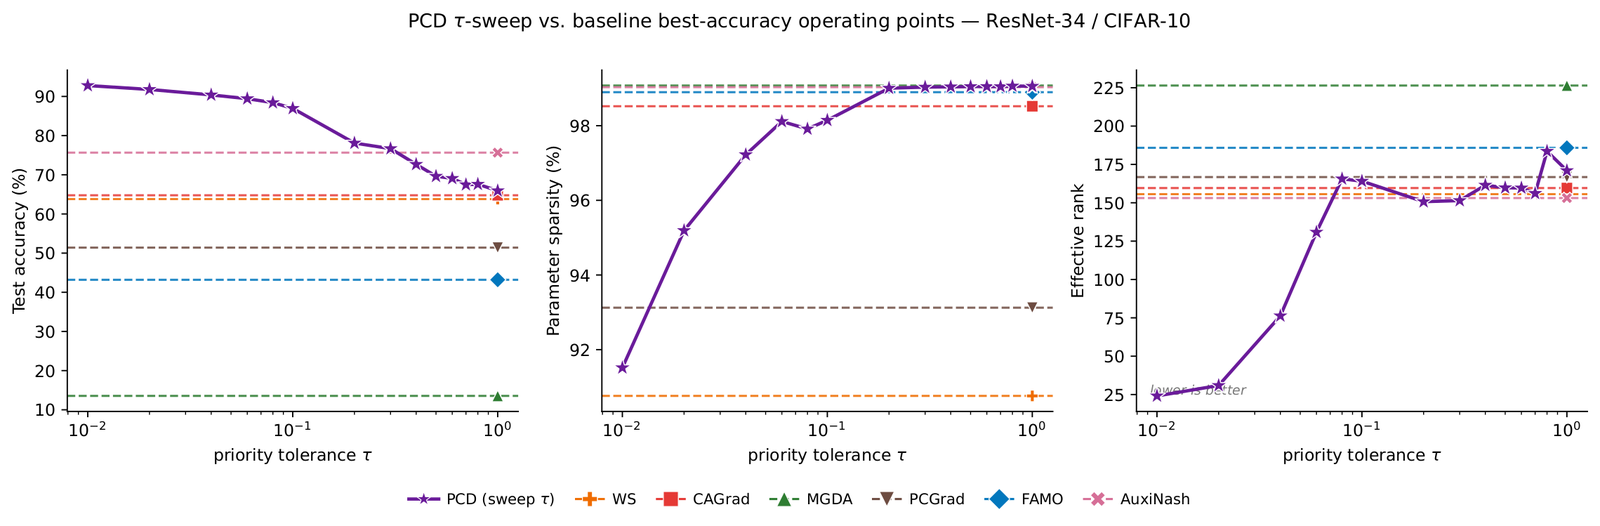
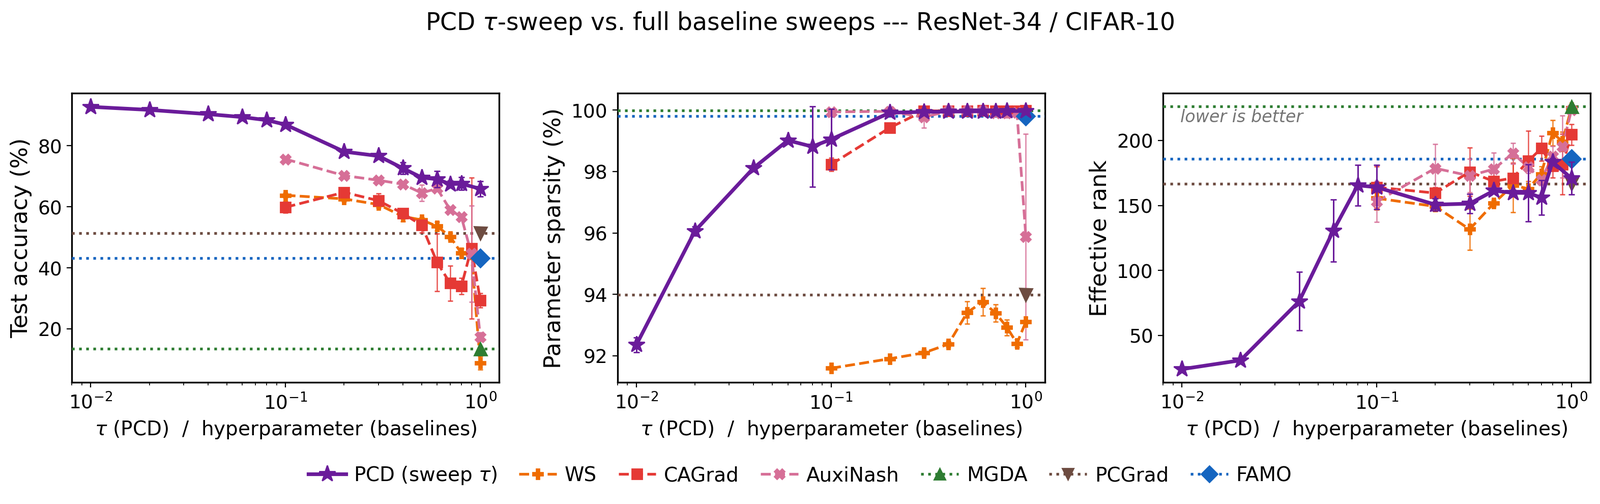
Update project page for the TMLR acceptance
- Venue: TMLR 2026 pill in the hero, OpenReview button and footer link,
  BibTeX now cites the TMLR article (arXiv kept as eprint).
- Video section with a placeholder (poster still + "coming soon"); the
  comment inside .video-frame shows the one-block swap for the final
  <video> or a YouTube embed.
- Figures regenerated from the accepted manuscript: ResNet-34/CIFAR-100
  pruning panel, per-method Pareto fronts, cost vs tau, K=3 tau-sweep.
- Numbers and claims aligned with the accepted paper: measured 45.4x FLOPs
  and 83x size at 99% (DenseNet-121/CIFAR-10), 24.5 ms unpruned latency,
  28/1/18 tuned comparisons, the MobileNetV2/CIFAR-100 99% exception,
  fixed-point wording scoped to the PCD direction, O(K/B) solver cost,
  and no convergence theorem for the deployed algorithm.
- An unset code link now tells visitors "Code release coming soon"
  instead of showing a developer message.

diff --git a/index.html b/index.html
@@ -4,7 +4,7 @@
 <meta charset="UTF-8" />
 <meta name="viewport" content="width=device-width, initial-scale=1.0" />
 <title>Priority-Constrained Descent (PCD) — Hierarchical Multi-Objective Optimization</title>
-<meta name="description" content="PCD is a drop-in gradient optimizer for training problems with a built-in hierarchy: one primary objective plus secondary objectives that merely constrain it. A single tolerance τ ∈ [0,1], no per-loss weights, and a guarantee it never stalls at the conflict equilibria where symmetric methods halt." />
+<meta name="description" content="PCD (TMLR 2026) is a drop-in gradient optimizer for training problems with a built-in hierarchy: one primary objective plus secondary objectives that merely constrain it. A single tolerance τ ∈ [0,1], no per-loss weights, and an update direction for which the conflict equilibria where symmetric methods halt are never fixed points." />
 <meta name="author" content="Dara Varam, Mohamed I. AlHajri" />
 
 <!-- Open Graph / social preview -->
@@ -33,6 +33,7 @@
 <nav class="dotnav" id="dotnav" aria-label="Section navigation">
   <a href="#hero" data-label="Top" class="active"><span></span></a>
   <a href="#tldr" data-label="TL;DR"><span></span></a>
+  <a href="#video" data-label="Video"><span></span></a>
   <a href="#figure" data-label="Interactive"><span></span></a>
   <a href="#method" data-label="The idea"><span></span></a>
   <a href="#guarantees" data-label="Guarantees"><span></span></a>
@@ -77,12 +78,17 @@
         <span><sup>2</sup> Senseable City Lab, MIT</span>
         <span class="eq"><sup>★</sup> Equal contribution</span>
       </div>
+      <p class="venue"><span class="venue-pill">Transactions on Machine Learning Research (TMLR), 2026</span></p>
     </div>
 
     <div class="actions reveal">
       <a class="btn btn-primary" href="#" data-link="paper">
         <svg viewBox="0 0 24 24" class="ico"><path d="M6 2h9l5 5v15H6z"/><path d="M15 2v5h5"/></svg>
         Read the paper
+      </a>
+      <a class="btn" href="#" data-link="openreview">
+        <svg viewBox="0 0 24 24" class="ico"><path d="M12 3l2.6 5.3 5.9.9-4.3 4.1 1 5.8-5.2-2.7-5.2 2.7 1-5.8-4.3-4.1 5.9-.9z"/></svg>
+        OpenReview
       </a>
       <a class="btn" href="#" data-link="arxiv">
         <svg viewBox="0 0 24 24" class="ico"><path d="M4 5h16M4 12h16M4 19h10"/></svg>
@@ -108,14 +114,42 @@
   <div class="wrap">
     <p class="kicker reveal">TL;DR</p>
     <div class="tldr-card reveal">
-      <p class="tldr-lead">Most training pipelines mix several losses, but one is usually the real <strong>deliverable</strong> (task accuracy) while the rest only <strong>constrain</strong> it (sparsity, low-rank, fidelity). Symmetric multi-objective methods average all gradients as equal peers and can <strong>stall before the primary has converged</strong>. <span class="hl">PCD anchors to the primary gradient and admits only the minimal distortion needed to keep every secondary making <em>guaranteed</em> progress</span> — one bounded knob&nbsp;<span class="m">τ</span>, no weight search, and a fixed point that is reached only when <em>every</em> objective is individually stationary.</p>
+      <p class="tldr-lead">Most training pipelines mix several losses, but one is usually the real <strong>deliverable</strong> (task accuracy) while the rest only <strong>constrain</strong> it (sparsity, low-rank, fidelity). Symmetric multi-objective methods average all gradients as equal peers and can <strong>stall before the primary has converged</strong>. <span class="hl">PCD anchors to the primary gradient and admits only the minimal distortion needed to keep every secondary making <em>guaranteed</em> progress</span> — one bounded knob&nbsp;<span class="m">τ</span>, no weight search, and an update direction that vanishes only when <em>every</em> objective is individually stationary.</p>
       <div class="chips">
         <span class="chip"><b>1</b> dial, not a weight sweep</span>
         <span class="chip"><b>94.0%</b> acc @ 90% pruning <span class="chip-sub">DenseNet-121 / CIFAR-10</span></span>
         <span class="chip"><b>70.9%</b> acc @ 90% pruning <span class="chip-sub">ResNet-34 / CIFAR-100</span></span>
-        <span class="chip">Can't get trapped in <b>conflict equilibria</b></span>
+        <span class="chip"><b>Conflict equilibria</b> are not fixed points</span>
       </div>
     </div>
+  </div>
+</section>
+
+<!-- ============================ VIDEO ============================ -->
+<section id="video" class="section section-video">
+  <div class="wrap">
+    <p class="kicker reveal">Video</p>
+    <h2 class="reveal">The whole idea, animated.</h2>
+    <div class="video-frame reveal">
+      <!-- Placeholder until the narrated cut is final. To publish the video, replace the
+           .video-placeholder div below with either a self-hosted file:
+             <video controls preload="metadata" playsinline poster="assets/video-poster.jpg">
+               <source src="assets/pcd-video.mp4" type="video/mp4" />
+               <track kind="captions" src="assets/pcd-video.vtt" srclang="en" label="English" default />
+             </video>
+           or a YouTube embed:
+             <iframe src="https://www.youtube-nocookie.com/embed/VIDEO_ID" title="Priority-Constrained Descent"
+                     allow="accelerometer; encrypted-media; gyroscope; picture-in-picture; fullscreen" allowfullscreen></iframe>
+           Both fill the 16:9 frame; no CSS changes needed. -->
+      <div class="video-placeholder">
+        <img src="assets/video-poster.jpg" alt="Still from the PCD video: the primary gradient projected onto the half-space of directions that keep the secondary progressing." loading="lazy" />
+        <div class="video-overlay">
+          <span class="video-play" aria-hidden="true"><svg viewBox="0 0 24 24"><path d="M8 5v14l11-7z"/></svg></span>
+          <span class="video-soon">Narrated walkthrough · coming soon</span>
+        </div>
+      </div>
+    </div>
+    <p class="caption reveal">An eight-minute tour: why symmetric methods stall at conflict equilibria, how PCD's projection works and what <span class="m">τ</span> controls, and the results on pruning, sparsity and low rank.</p>
   </div>
 </section>
 
@@ -189,7 +223,7 @@
 
         <p class="reveal">The primary's coefficient is <strong>pinned to one</strong>; each secondary enters only through a non-negative multiplier that is zero unless its constraint is active. The "anchor" and the "corrections" are built into the construction — not recovered from it. That is the structural break from symmetric methods, which mix <span class="m">g<sub>1</sub></span> and <span class="m">g<sub>2</sub></span> as peers and cannot tell the deliverable from its constraints.</p>
 
-        <p class="reveal">For <span class="m">K = 2</span> the update is fully closed-form — add <em>exactly</em> the component along <span class="m">g̃<sub>2</sub></span> needed to meet the constraint at equality, and no more. <span class="m">K = 3</span> is closed-form via Cramer's rule; larger <span class="m">K</span> uses an active-set solver whose <span class="m">O(K²n)</span> cost is dominated by the <span class="m">K</span> backpropagations.</p>
+        <p class="reveal">For <span class="m">K = 2</span> the update is fully closed-form — add <em>exactly</em> the component along <span class="m">g̃<sub>2</sub></span> needed to meet the constraint at equality, and no more. <span class="m">K = 3</span> is closed-form via Cramer's rule; larger <span class="m">K</span> enumerates active sets on the <span class="m">K×K</span> Gram matrix. That solve is negligible next to the <span class="m">K</span> backpropagations: under 2% of wall-clock time at <span class="m">K = 2</span>.</p>
 
         <div class="eqn reveal">\[ \mathbf{d}^\star = \begin{cases} \tilde{\mathbf{g}}_1, & \tilde{\mathbf{g}}_2^{\!\top}\tilde{\mathbf{g}}_1 \ge \tau\lVert\tilde{\mathbf{g}}_2\rVert^2,\\[6pt] \tilde{\mathbf{g}}_1 + \Bigl(\tau - \dfrac{\tilde{\mathbf{g}}_2^{\!\top}\tilde{\mathbf{g}}_1}{\lVert\tilde{\mathbf{g}}_2\rVert^2}\Bigr)\,\tilde{\mathbf{g}}_2, & \text{otherwise.} \end{cases} \]</div>
 
@@ -215,7 +249,7 @@
       <article class="card reveal">
         <div class="card-no">01</div>
         <h3>Per-step secondary progress</h3>
-        <p>With <span class="m">τ &gt; 0</span> and a feasible QP, every step satisfies <span class="m">g̃<sub>j</sub><sup>⊤</sup>d<sup>★</sup> ≥ τ‖g̃<sub>j</sub>‖²</span> — a tolerance-controlled descent on each non-stationary secondary. Stronger than PCGrad (no per-objective guarantee), MGDA (only an aggregate), and weighted sum (only the scalarized loss).</p>
+        <p>With <span class="m">τ &gt; 0</span> and a feasible QP, every step satisfies <span class="m">g̃<sub>j</sub><sup>⊤</sup>d<sup>★</sup> ≥ τ‖g̃<sub>j</sub>‖²</span> — tolerance-controlled first-order descent on each non-stationary secondary (exactly for smooth secondaries; for nonsmooth ones up to a "kink tax" the paper quantifies). Stronger than PCGrad (no per-objective guarantee), MGDA (only an aggregate), and weighted sum (only the scalarized loss).</p>
       </article>
       <article class="card reveal">
         <div class="card-no">02</div>
@@ -230,7 +264,7 @@
       <article class="card reveal">
         <div class="card-no">04</div>
         <h3>A strictly stronger endpoint</h3>
-        <p><span class="m">d<sup>★</sup> = 0</span> if and only if <em>every</em> objective is individually stationary — <strong>composite multi-stationarity</strong>. It is strictly stronger than Pareto stationarity and rules out the gradient-cancellation conflict equilibria where symmetric methods halt.</p>
+        <p>For <span class="m">τ &gt; 0</span>, <span class="m">d<sup>★</sup> = 0</span> if and only if <em>every</em> objective is individually stationary — <strong>composite multi-stationarity</strong>. It is strictly stronger than Pareto stationarity, so the gradient-cancellation conflict equilibria where symmetric methods halt are never fixed points of the PCD direction.</p>
       </article>
       <article class="card reveal">
         <div class="card-no">05</div>
@@ -255,7 +289,7 @@
 
     <div class="stat-row">
       <div class="stat reveal"><div class="stat-num">70.9<span>%</span></div><div class="stat-lbl">accuracy at <b>90% structured sparsity</b> on ResNet-34 / CIFAR-100 (73.3% unpruned). Strongest baseline (AuxiNash): 44.4%.</div></div>
-      <div class="stat reveal"><div class="stat-num">89.2<span>%</span></div><div class="stat-lbl">accuracy at <b>99% parameter reduction</b> on DenseNet-121 / CIFAR-10 — a 43.2× FLOPs and 97.2× model-size cut.</div></div>
+      <div class="stat reveal"><div class="stat-num">89.2<span>%</span></div><div class="stat-lbl">accuracy at <b>99% parameter reduction</b> on DenseNet-121 / CIFAR-10 — a 45.4× FLOPs and 83× model-size cut, measured on the physically pruned network.</div></div>
       <div class="stat reveal"><div class="stat-num">2.3–3.4<span>×</span></div><div class="stat-lbl">the dominated <b>hypervolume</b> of the strongest baseline in the three-objective setting, in every configuration.</div></div>
     </div>
 
@@ -275,7 +309,8 @@
       </figure>
       <div class="result-text">
         <h3>One method dominates the pruning frontier</h3>
-        <p>Across <strong>four architectures</strong> (DenseNet-121, ResNet-34, Inception, MobileNetV2) on <strong>CIFAR-10 and CIFAR-100</strong> — eight configurations — PCD's purple curve sits above every multi-objective baseline at every compression target. Under a structural sparsity penalty the symmetric direction methods (MGDA, PCGrad, CAGrad, FAMO) collapse toward random accuracy; PCD holds the line.</p>
+        <p>Across <strong>four architectures</strong> (DenseNet-121, ResNet-34, Inception, MobileNetV2) on <strong>CIFAR-10 and CIFAR-100</strong> — eight configurations — PCD's purple curve sits above every multi-objective baseline at every compression target up to 95%. (The one exception is MobileNetV2 / CIFAR-100 at 99%, where every method has collapsed.) Under a structural sparsity penalty the symmetric direction methods (MGDA, PCGrad, CAGrad, FAMO) collapse toward random accuracy; PCD holds the line.</p>
+        <p>Against tuned, pruning-specific and constrained baselines at matched sparsity, PCD is better in <strong>28 of 47</strong> comparisons in the compression regime (≥ 85% sparsity), worse in 1, and within seed noise in the rest.</p>
       </div>
     </div>
 
@@ -285,33 +320,17 @@
       </figure>
       <div class="result-text">
         <h3>One dial, the whole frontier</h3>
-        <p>Sweeping a single <span class="m">τ</span> trades <strong>81.5&nbsp;MB</strong> of size, <strong>2.33&nbsp;G</strong> FLOPs and <strong>42.7&nbsp;ms</strong> of latency against accuracy on ResNet-34 / CIFAR-100. The curve is smooth and monotone — most of the benefit arrives within <span class="m">τ ∈ (0, 0.1]</span> — so a practitioner dials to a resource budget instead of searching weight ratios.</p>
+        <p>Sweeping a single <span class="m">τ</span> trades the unpruned network's <strong>81.5&nbsp;MB</strong>, <strong>2.33&nbsp;G</strong> FLOPs and <strong>24.5&nbsp;ms</strong> CPU latency against accuracy on ResNet-34 / CIFAR-100. The curve is smooth and, to within seed noise, monotone — most of the benefit arrives within <span class="m">τ ∈ (0, 0.1]</span> — so a practitioner dials to a resource budget instead of searching weight ratios.</p>
       </div>
     </div>
 
     <div class="result-block reveal">
       <figure>
-        <img src="assets/pareto-resnet-c100.png" alt="Pareto frontiers of accuracy vs latency, size and FLOPs." loading="lazy" />
-        <div class="tau-scale">
-          <span>PCD marker shade:</span>
-          <span class="ts-end m">τ = 0</span>
-          <i class="ts-bar"></i>
-          <span class="ts-end m">τ = 1</span>
-        </div>
-        <div class="fig-legend">
-          <span class="fl fl-star" style="--c:#6A1B9A">PCD (τ-swept)</span>
-          <span class="fl" style="--c:#EF6C00">WS</span>
-          <span class="fl" style="--c:#E53935">CAGrad</span>
-          <span class="fl" style="--c:#2E7D32">MGDA</span>
-          <span class="fl" style="--c:#1565C0">FAMO</span>
-          <span class="fl" style="--c:#6D4C41">PCGrad</span>
-          <span class="fl" style="--c:#D66F97">AuxiNash</span>
-          <span class="fl fl-star" style="--c:#1A1523">unpruned baseline</span>
-        </div>
+        <img src="assets/pareto-resnet-c100.png" alt="Pareto frontiers of accuracy vs latency, size and FLOPs; PCD's τ-swept curve against every baseline's physically pruned networks." loading="lazy" />
       </figure>
       <div class="result-text">
         <h3>The swept front dominates baselines</h3>
-        <p>On every resource axis — latency, file size, FLOPs — PCD's <span class="m">τ</span>-swept curve lies above each baseline's best operating point. The same single knob that controls compression traces the entire accuracy–efficiency Pareto front.</p>
+        <p>Every baseline is physically pruned at each compression target and its latency, file size and FLOPs measured directly. On ResNet-34 / CIFAR-100, on every one of those axes and at every target, the baseline networks sit above PCD's <span class="m">τ</span>-swept curve: at equal cost, PCD's network is more accurate. The same single knob that controls compression traces the whole accuracy–efficiency front.</p>
       </div>
     </div>
   </div>
@@ -349,8 +368,8 @@
       <p class="k3-lead">Beyond two objectives — a <span class="m">K = 3</span> hierarchy (task loss + <span class="m">ℓ<sub>1</sub></span> sparsity + nuclear-norm low-rank):</p>
       <div class="k3-figs">
         <figure>
-          <img src="assets/k3-tausweep.png" alt="τ-sweep on a three-objective hierarchy versus baseline operating points." loading="lazy" />
-          <figcaption>A single <span class="m">τ</span>-sweep beats every baseline on accuracy and effective rank at once; at <span class="m">τ = 0.02</span>, ResNet-34 / CIFAR-100 holds <b>71.0%</b> accuracy at effective rank <b>24.5</b>, versus AuxiNash's 48.7% at rank 184.8.</figcaption>
+          <img src="assets/k3-tausweep.png" alt="PCD's τ-sweep on a three-objective hierarchy versus every baseline's full hyperparameter sweep." loading="lazy" />
+          <figcaption>Over the low-to-moderate <span class="m">τ</span> range, PCD's single sweep beats every baseline's full sweep on accuracy and on effective rank, while the baselines reach high sparsity only by collapsing. At <span class="m">τ = 0.02</span>, ResNet-34 / CIFAR-100 holds <b>71.0%</b> accuracy at effective rank <b>24.5</b>, versus AuxiNash's 48.7% at rank 184.8.</figcaption>
         </figure>
         <figure>
           <img src="assets/k3-hypervolume.png" alt="Dominated hypervolume per configuration; PCD largest everywhere." loading="lazy" />
@@ -380,7 +399,8 @@
       <li class="reveal"><span class="dot"></span>Guarantees are <strong>local and directional</strong> — they attach to the normalized direction <span class="m">d<sup>★</sup></span> and its idealized first-order step, not to a stochastic global-convergence claim.</li>
       <li class="reveal"><span class="dot"></span>The CMS endpoint is meaningful only when a <strong>jointly stationary point exists</strong> (the regularizer-style hierarchy). On genuine trade-offs with no common stationary point, <span class="m">τ &gt; 0</span> has no fixed point.</li>
       <li class="reveal"><span class="dot"></span>For <span class="m">K &gt; 2</span> the QP can be infeasible if secondaries are mutually incompatible — but in high dimensions this is a measure-zero event (<strong>0 of 1785</strong> synthetic feasibility checks were infeasible).</li>
-      <li class="reveal"><span class="dot"></span>Each step needs <span class="m">K</span> backpropagations for the gradients; the <span class="m">K×K</span> QP itself is negligible — the same <span class="m">O(K²n)</span> order as MGDA.</li>
+      <li class="reveal"><span class="dot"></span>Each step needs <span class="m">K</span> backpropagations for the gradients. The <span class="m">K×K</span> QP adds an <span class="m">O(K²n)</span> Gram matrix, a fraction <span class="m">O(K/B)</span> of the backward passes for batch size <span class="m">B</span> (under 2% of wall-clock time at <span class="m">K = 2</span>, <span class="m">B = 128</span>).</li>
+      <li class="reveal"><span class="dot"></span>No convergence theorem is claimed for the deployed algorithm (normalized direction, magnitude rescale, adaptive optimizer). The guarantees describe the direction PCD computes; the experiments report PCD as deployed.</li>
     </ul>
   </div>
 </section>
@@ -399,12 +419,13 @@
   title         = {Not All Objectives Are Born Equal: Priority-Constrained
                    Descent for Hierarchical Multi-Objective Optimization},
   author        = {Varam, Dara and AlHajri, Mohamed I.},
-  journal       = {arXiv preprint arXiv:2606.29521},
+  journal       = {Transactions on Machine Learning Research},
+  issn          = {2835-8856},
   year          = {2026},
+  url           = {https://openreview.net/forum?id=HT01yGHLEt},
   eprint        = {2606.29521},
   archivePrefix = {arXiv},
-  primaryClass  = {cs.LG},
-  url           = {https://arxiv.org/abs/2606.29521}
+  primaryClass  = {cs.LG}
 }</pre>
     </div>
   </div>
@@ -412,10 +433,11 @@
     <div class="wrap footer-inner">
       <div>
         <p class="foot-title">Priority-Constrained Descent</p>
-        <p class="foot-sub">Dara Varam &amp; Mohamed I. AlHajri · American University of Sharjah</p>
+        <p class="foot-sub">Dara Varam &amp; Mohamed I. AlHajri · American University of Sharjah · TMLR 2026</p>
       </div>
       <div class="foot-links">
         <a href="#" data-link="paper">Paper</a>
+        <a href="#" data-link="openreview">OpenReview</a>
         <a href="#" data-link="arxiv">arXiv</a>
         <a href="#" data-link="code">Code</a>
         <a href="mailto:varam@mit.edu">Contact</a>

diff --git a/css/style.css b/css/style.css
@@ -115,6 +115,8 @@ sup{font-size:.62em;font-weight:500;}
 .author{font-weight:600;font-size:18px;margin-right:22px;color:var(--ink);}
 .affil{margin-top:8px;display:flex;flex-wrap:wrap;gap:6px 20px;font-size:14.5px;color:var(--slate);}
 .affil .eq{color:var(--pcd);}
+.venue{margin:16px 0 0;}
+.venue-pill{display:inline-block;background:var(--pcd-wash);color:var(--pcd);border:1px solid #E4D4F2;border-radius:999px;padding:6px 14px;font-size:14px;font-weight:600;}
 
 .actions{display:flex;flex-wrap:wrap;gap:12px;}
 
@@ -139,6 +141,17 @@ sup{font-size:.62em;font-weight:500;}
 .chip{display:inline-flex;align-items:baseline;gap:7px;background:var(--surface);border:1px solid #E4D4F2;border-radius:999px;padding:8px 16px;font-size:14.5px;color:var(--ink);font-weight:500;}
 .chip b{font-family:var(--font-display);color:var(--pcd);font-size:16px;}
 .chip-sub{color:var(--slate);font-weight:400;font-size:12.5px;}
+
+/* ============================ VIDEO ============================ */
+.section-video{padding-top:8px;}
+.video-frame{position:relative;aspect-ratio:16/9;margin-top:28px;border-radius:var(--radius);overflow:hidden;background:var(--surface);border:1px solid var(--mist);box-shadow:var(--shadow-lg);}
+.video-frame video,.video-frame iframe{position:absolute;inset:0;width:100%;height:100%;border:0;display:block;background:#000;}
+.video-placeholder{position:absolute;inset:0;}
+.video-placeholder img{width:100%;height:100%;object-fit:cover;display:block;opacity:.5;filter:saturate(.85);}
+.video-overlay{position:absolute;inset:0;display:flex;flex-direction:column;align-items:center;justify-content:center;gap:16px;background:radial-gradient(circle at 50% 50%, rgba(252,251,253,.55), rgba(252,251,253,.2) 60%);}
+.video-play{width:78px;height:78px;border-radius:50%;background:var(--pcd);display:grid;place-items:center;box-shadow:0 14px 32px -10px rgba(61,14,92,.55);}
+.video-play svg{width:30px;height:30px;fill:#fff;margin-left:5px;}
+.video-soon{font-size:13px;font-weight:600;letter-spacing:.14em;text-transform:uppercase;color:var(--pcd-deep);background:rgba(255,255,255,.9);border:1px solid #E4D4F2;padding:7px 16px;border-radius:999px;}
 
 /* ====================== INTERACTIVE FIGURE ===================== */
 .figure-wrap{display:grid;grid-template-columns:1.25fr .85fr;gap:34px;margin-top:36px;background:var(--surface);border:1px solid var(--mist);border-radius:var(--radius);padding:26px;box-shadow:var(--shadow-lg);}
@@ -317,4 +330,9 @@ a:focus-visible,button:focus-visible,input:focus-visible,.leg-item:focus-visible
   /* citation: copy button above the code, wrap long lines */
   .cite-card .copy-btn{position:static;margin:6px 6px 0;}
   .cite-card pre{white-space:pre-wrap;word-break:break-word;font-size:12.5px;padding:18px 18px;}
+}
+@media (max-width:620px){
+  .video-play{width:58px;height:58px;}
+  .video-play svg{width:24px;height:24px;}
+  .video-soon{font-size:11px;padding:6px 12px;}
 }

diff --git a/js/main.js b/js/main.js
@@ -9,10 +9,12 @@
      to keep it as a gentle "coming soon" placeholder.
      ----------------------------------------------------------------------- */
   var LINKS = {
-    paper: "https://arxiv.org/pdf/2606.29521",  // "Read the paper" / "See the appendix"
-    arxiv: "https://arxiv.org/abs/2606.29521",  // arXiv abstract page
-    code: ""                                     // e.g. "https://github.com/yourname/pcd"
+    paper: "https://arxiv.org/pdf/2606.29521",                   // "Read the paper" / "See the appendix"
+    openreview: "https://openreview.net/forum?id=HT01yGHLEt",    // TMLR forum (accepted version)
+    arxiv: "https://arxiv.org/abs/2606.29521",                   // arXiv abstract page
+    code: ""                                                      // set to the code repository once public
   };
+  var PENDING = { code: "Code release coming soon" };             // what visitors see for an unset link
 
   var toast = document.getElementById("toast");
   function showToast(msg) {
@@ -32,10 +34,10 @@
       a.setAttribute("rel", "noopener");
     } else {
       a.setAttribute("aria-disabled", "true");
-      a.setAttribute("title", "Link coming soon");
+      a.setAttribute("title", PENDING[key] || "Link coming soon");
       a.addEventListener("click", function (e) {
         e.preventDefault();
-        showToast("Add your " + key + " link in js/main.js");
+        showToast(PENDING[key] || "Link coming soon");
       });
     }
   });
